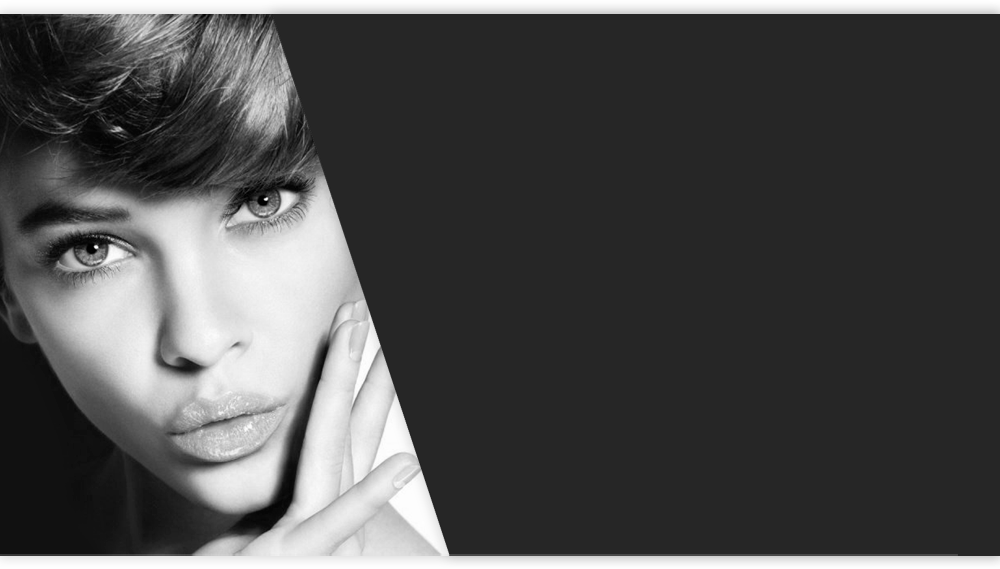
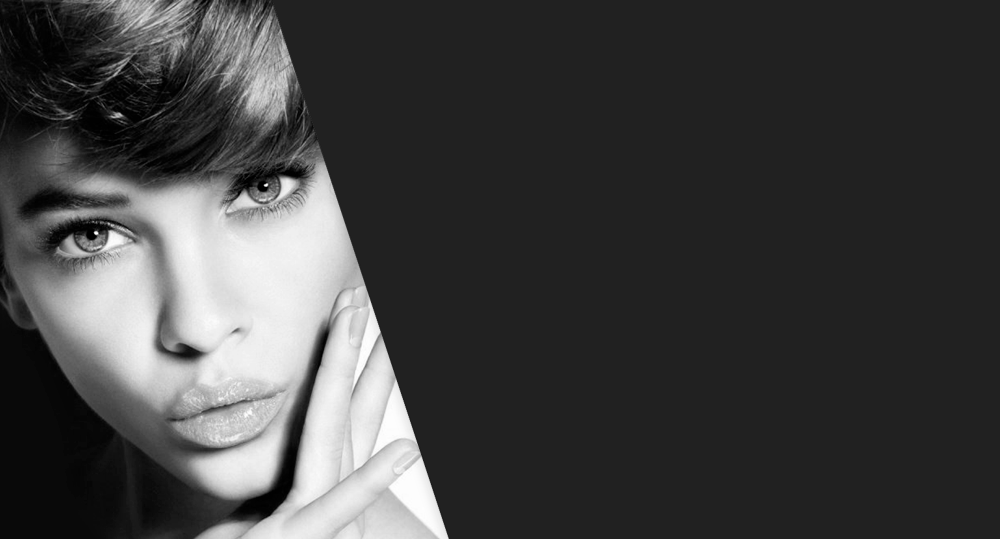
0.2.6.2

diff --git a/src/components/ourclothes.vue b/src/components/ourclothes.vue
@@ -53,9 +53,9 @@ import card from './modals/card'
 
 <style scoped lang="stylus">
 .clothesBG
-  background url('/static/cardbg.png') center center no-repeat
+  background url('/static/cardbg1.png') center center no-repeat
   height 830px
-  margin-left -2px
+  background-size cover
   display flex
   justify-content center
   align-items center
@@ -101,7 +101,7 @@ import card from './modals/card'
       margin-bottom 0
 
 @media (max-width 1024px)
-  .container
+  .clothesBG
     height 540px
     background-image url('/static/1024/cardbg1024.png')
     .wrapper
@@ -111,6 +111,9 @@ import card from './modals/card'
       .box
         min-height 195px
         padding 1rem
+        .text
+          font-size 1.2rem
+          line-height 1.9rem
         .details
           font-size 1.2rem
           padding-bottom 0rem
@@ -126,4 +129,17 @@ import card from './modals/card'
       &:nth-child(4)
         .box
           background url('/static/1024/girlfour.png') 101% -5% no-repeat
+
+@media (max-width 600px)
+  .clothesBG
+    background-image url('/static/480/480cardbg.png')
+    height auto
+    min-height 1000px
+    margin-top -5px
+    h2
+      padding 1rem 0
+      font-size 1.5rem
+      text-align center
+    .text
+      font-size 1rem !important
 </style>

diff --git a/src/components/pains.vue b/src/components/pains.vue
@@ -19,7 +19,7 @@
 
 <style scoped lang="stylus">
 .container
-  height 775px
+  height 770px
   background-image url('/static/pain.png')
   display flex
   align-items center
@@ -59,7 +59,7 @@
 @media (max-width: 480px)
   .container
     background-image url('/static/480/480bgpain.png')
-    height 775px
+    height 770px
   .layoutContainer
     max-width: 380px
     p 

diff --git a/src/components/banner.vue b/src/components/banner.vue
@@ -35,7 +35,7 @@
 <style scoped lang="stylus">
 .bannerContainer
   background-image url('/static/bannerbgGirl.png')
-  height 100vh
+  height 90vh
   background-position right center
   position relative
   .banner

diff --git a/src/components/whyus.vue b/src/components/whyus.vue
@@ -45,4 +45,5 @@
     justify-content center
     img
       padding-bottom 3.5rem
+      min-width 99px
 </style>
